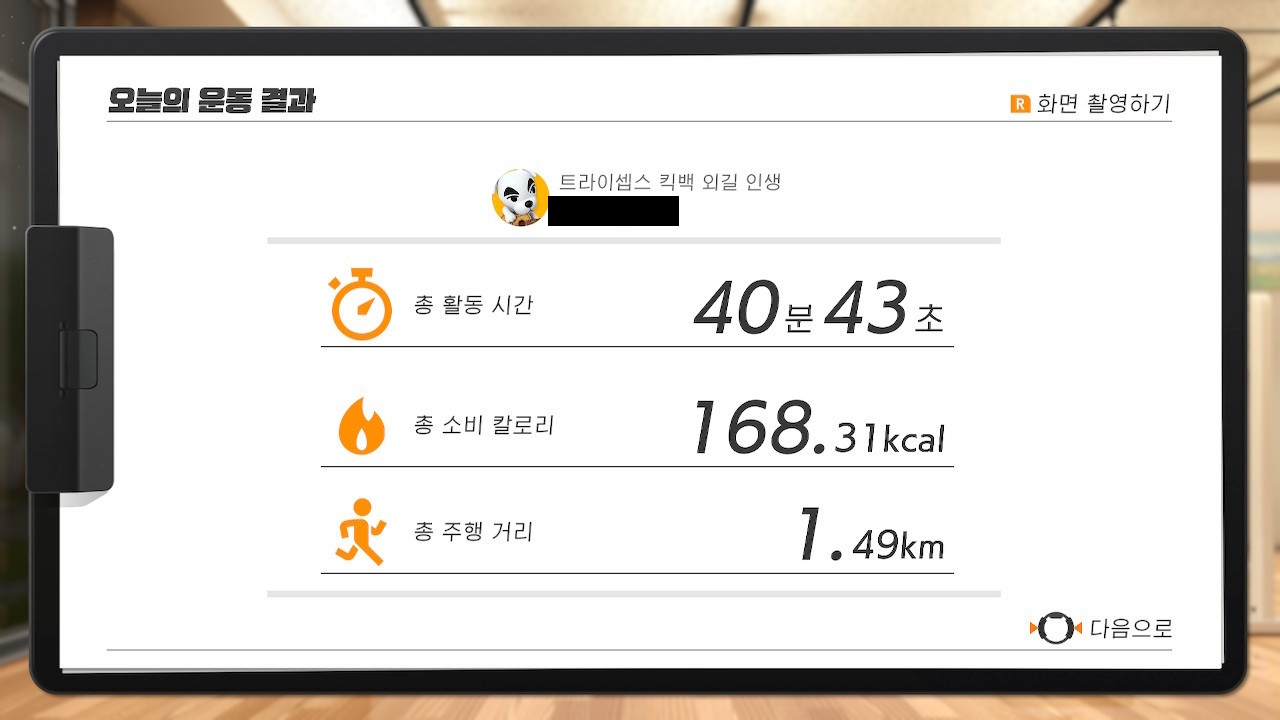
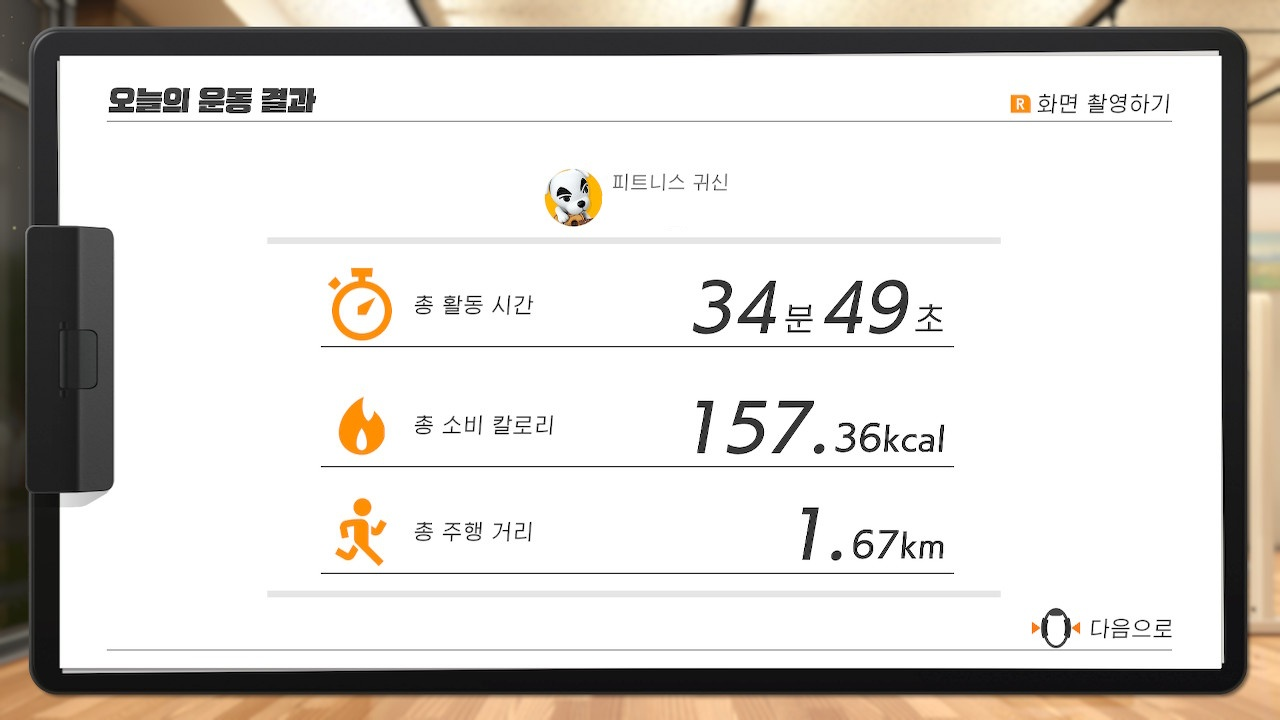
fix mask range, change masking bar colour to white. add support for underbar string.

diff --git a/src/main.rs b/src/main.rs
@@ -20,12 +20,12 @@ pub enum MaskMyNameError {
     #[error("Failed to get text from Tesseract.")]
     TessGetTextError(),
     #[error("Failed to create black bar Mat.")]
-    BlackBarCreationError(),
+    MaskingBarCreationError(),
     #[error("No matching string found.")]
     NoMatchingString(),
 }
 
-fn load_image(image_path: PathBuf) -> Result<Mat, MaskMyNameError> {
+fn load_image(image_path: &PathBuf) -> Result<Mat, MaskMyNameError> {
     match imread(image_path.to_str().expect("failed to convert PathBuf to str."), IMREAD_UNCHANGED) {
         Ok(image) => {
             Ok(image)
@@ -42,7 +42,7 @@ fn mask_text(image: &Mat) -> Result<Mat, MaskMyNameError> {
     cvt_color(image, &mut image_hsv, COLOR_BGR2HSV, 0).expect("Convert BGR2HSV failed. check input image file.");
     in_range(&image_hsv,
              &Scalar::new(0., 0., 0., 0.),
-             &Scalar::new(0., 0., 150., 255.),
+             &Scalar::new(0., 0., 30., 255.),
              &mut image_mask).expect("in_range failed. check converted Mat is in HSV Colour space.");;
     let kernel = get_structuring_element(MORPH_RECT, Size::new(5, 3), Point::new(-1, -1)).expect("failed to get_structuring_element.");
     let mut image_dst: Mat = Default::default();
@@ -54,11 +54,11 @@ fn mask_text(image: &Mat) -> Result<Mat, MaskMyNameError> {
 fn find_textarea_from_mask(image: &Mat) -> Result<Vec<Rect>, MaskMyNameError> {
     let mut contours: VectorOfVectorOfPoint = Default::default();
     let mut rect_result: Vec<Rect> = Default::default();
-    find_contours(image, &mut contours, RETR_EXTERNAL, CHAIN_APPROX_NONE, Default::default()).expect("find_contours failed. ");
+    find_contours(image, &mut contours, RETR_EXTERNAL, CHAIN_APPROX_NONE, Default::default()).expect("find_contours failed.");
     for contour in contours {
         let rect = bounding_rect(&contour).expect("");
-        if rect.height < rect.width && rect.height > 15 {
-            if rect.width / rect.height < 5 && rect.width < (image.cols() / 2) {
+        if rect.height < rect.width && rect.height > 10 {
+            if rect.width / rect.height < 15 && rect.width < (image.cols() / 2) {
                 rect_result.push(rect);
             }
         }
@@ -77,10 +77,10 @@ fn scan_image(tess: &mut TessBaseApi, image: &Mat) -> Result<Text, MaskMyNameErr
     }
 }
 
-fn black_bar(roi: &Mat) -> Result<Mat, MaskMyNameError> {
-    match Mat::new_rows_cols_with_default(roi.rows(), roi.cols(), roi.typ(), Scalar::new(0., 0., 0., 255.)) {
+fn masking_bar(roi: &Mat) -> Result<Mat, MaskMyNameError> {
+    match Mat::new_rows_cols_with_default(roi.rows(), roi.cols(), roi.typ(), Scalar::new(255., 255., 255., 255.)) {
         Ok(mat) => { Ok(mat) }
-        Err(_) => { Err(MaskMyNameError::BlackBarCreationError()) }
+        Err(_) => { Err(MaskMyNameError::MaskingBarCreationError()) }
     }
 }
 
@@ -92,10 +92,25 @@ fn init_tess(lang: &CStr) -> Result<TessBaseApi, MaskMyNameError> {
     }
 }
 
-fn mask_my_name(lang: CString, image_path: PathBuf, target_string: String) -> Result<Mat, MaskMyNameError> {
+fn supplement_target_string(target: &String) -> Vec<String> {
+    let mut strings = Vec::new();
+    match target.contains("_") {
+        true => {
+            strings.push(target.to_lowercase());
+            strings.push(target.replace("_", " ").to_lowercase());
+        }
+        false => {
+            strings.push(target.to_lowercase());
+        }
+    }
+    strings
+}
+
+fn mask_my_name(lang: CString, image_path: &PathBuf, target_string: &String) -> Result<Mat, MaskMyNameError> {
     let mut success = false;
     let mut image = load_image(image_path)?;
     let mut target_image: Mat = Default::default();
+    let mut strings = supplement_target_string(target_string);
     match init_tess(lang.as_c_str()) {
         Ok(mut tess) => {
             for area in find_textarea_from_mask(&mask_text(&image)?)? {
@@ -103,9 +118,10 @@ fn mask_my_name(lang: CString, image_path: PathBuf, target_string: String) -> Re
                 roi.copy_to(&mut target_image).expect("Failed to copy roi data.");
                 match scan_image(&mut tess, &target_image) {
                     Ok(text) => {
-                        if text.as_ref().to_str().unwrap_or("").to_lowercase().contains(&target_string.to_lowercase()) {
+                        let picked = text.as_ref().to_str().unwrap_or("").to_lowercase();
+                        if strings.iter().any(|s| picked.contains(s)) {
                             success = true;
-                            black_bar(&roi)?.copy_to(&mut roi).expect("Failed to copy black bar data.");
+                            masking_bar(&roi)?.copy_to(&mut roi).expect("Failed to copy black bar data.");
                         }
                     },
                     Err(e) => { return Err(e); }
@@ -125,26 +141,31 @@ struct Cli {
     target_string: String
 }
 
-fn main() -> Result<(), Box<dyn std::error::Error>> {
+fn main() {
     let path = env::args().nth(1).expect("no path given");
     let target_string = env::args().nth(2).unwrap_or("".to_string());
     let args = Cli {
         image_path: PathBuf::from(path),
         target_string,
     };
-    match mask_my_name(CString::new("eng")?, args.image_path, args.target_string) {
+    match mask_my_name(CString::new("eng").expect("Convert str to CString failed."), &args.image_path, &args.target_string) {
         Ok(image) => {
             println!("Matching found. write masked image to disk.");
-            imwrite("output.jpg", &image, &Default::default()).expect("Failed to write image data.");
+            imwrite(format!("{}_masked.{}",
+                            &args.image_path.file_stem().unwrap_or("output".as_ref()).to_str().unwrap_or("output"),
+                            &args.image_path.extension().unwrap_or("jpg".as_ref()).to_str().unwrap_or("jpg")).as_str(),
+                    &image, &Default::default()).expect("Failed to write image data.");
         },
         Err(e) => {
             match e {
                 MaskMyNameError::NoMatchingString() => {
+                    // TODO: switch to japanese string
                     println!("{}", e);
                 }
-                _ => {}
+                _ => {
+                    println!("{}", e);
+                }
             }
         }
     }
-    Ok(())
 }

diff --git a/README.md b/README.md
@@ -1,8 +1,10 @@
 # Mask-my-name
 ![](screenshot.jpg)
+![](screenshot2.jpg)
 
 ## Usage
 <code>mask-my-name IMAGE_PATH YOUR_NAME(ALPHABET)</code>
 
 ## TODO
+* Support Japanese text.
 * Web API for SNS publishing.
